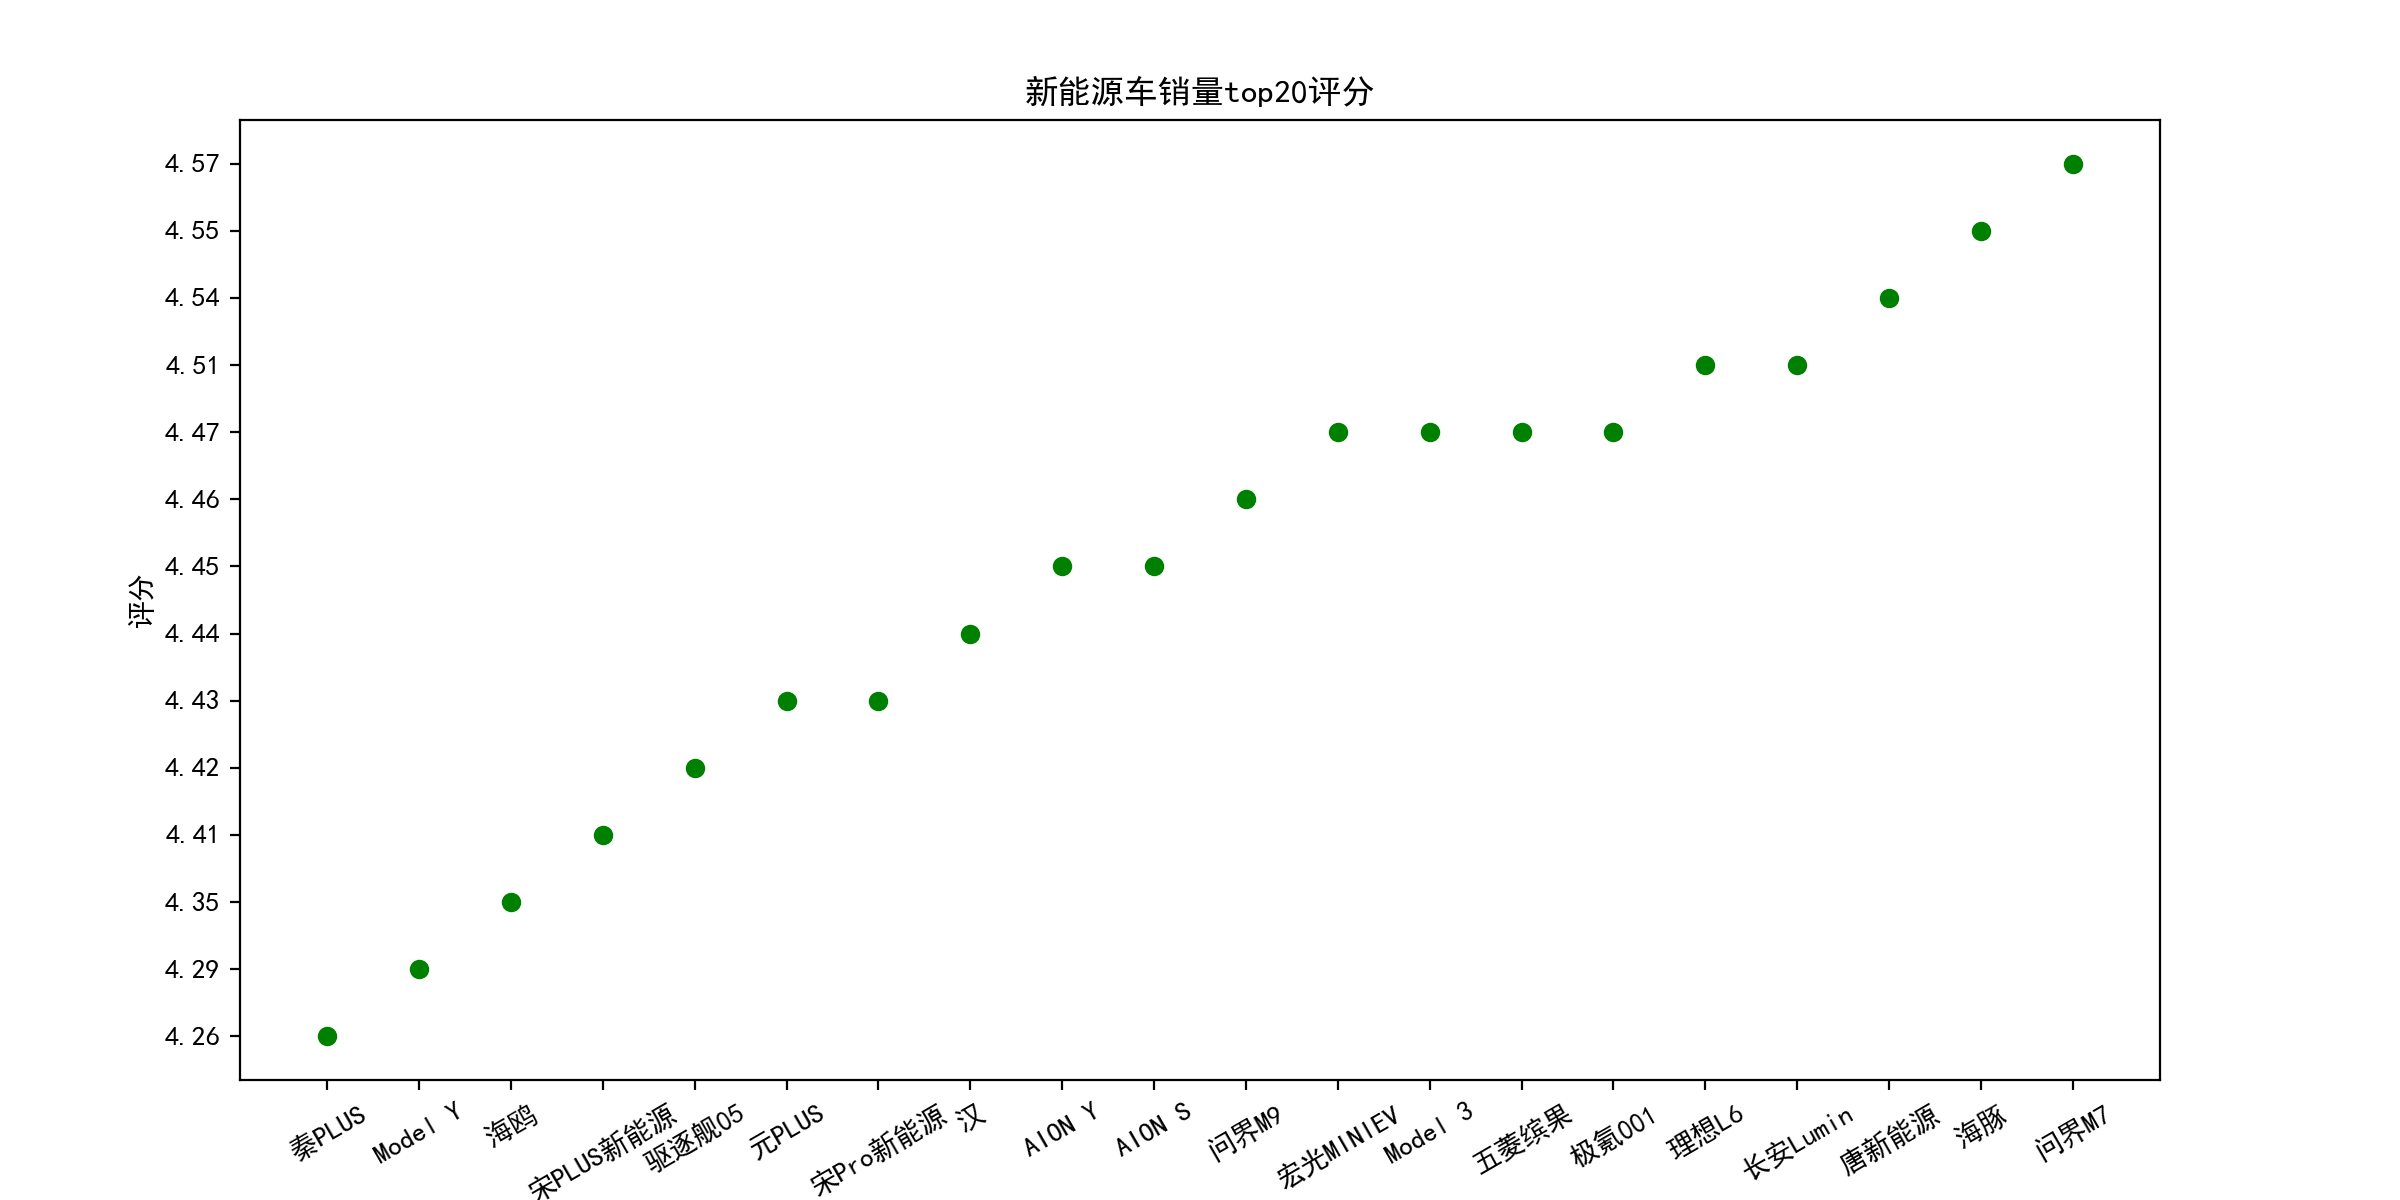
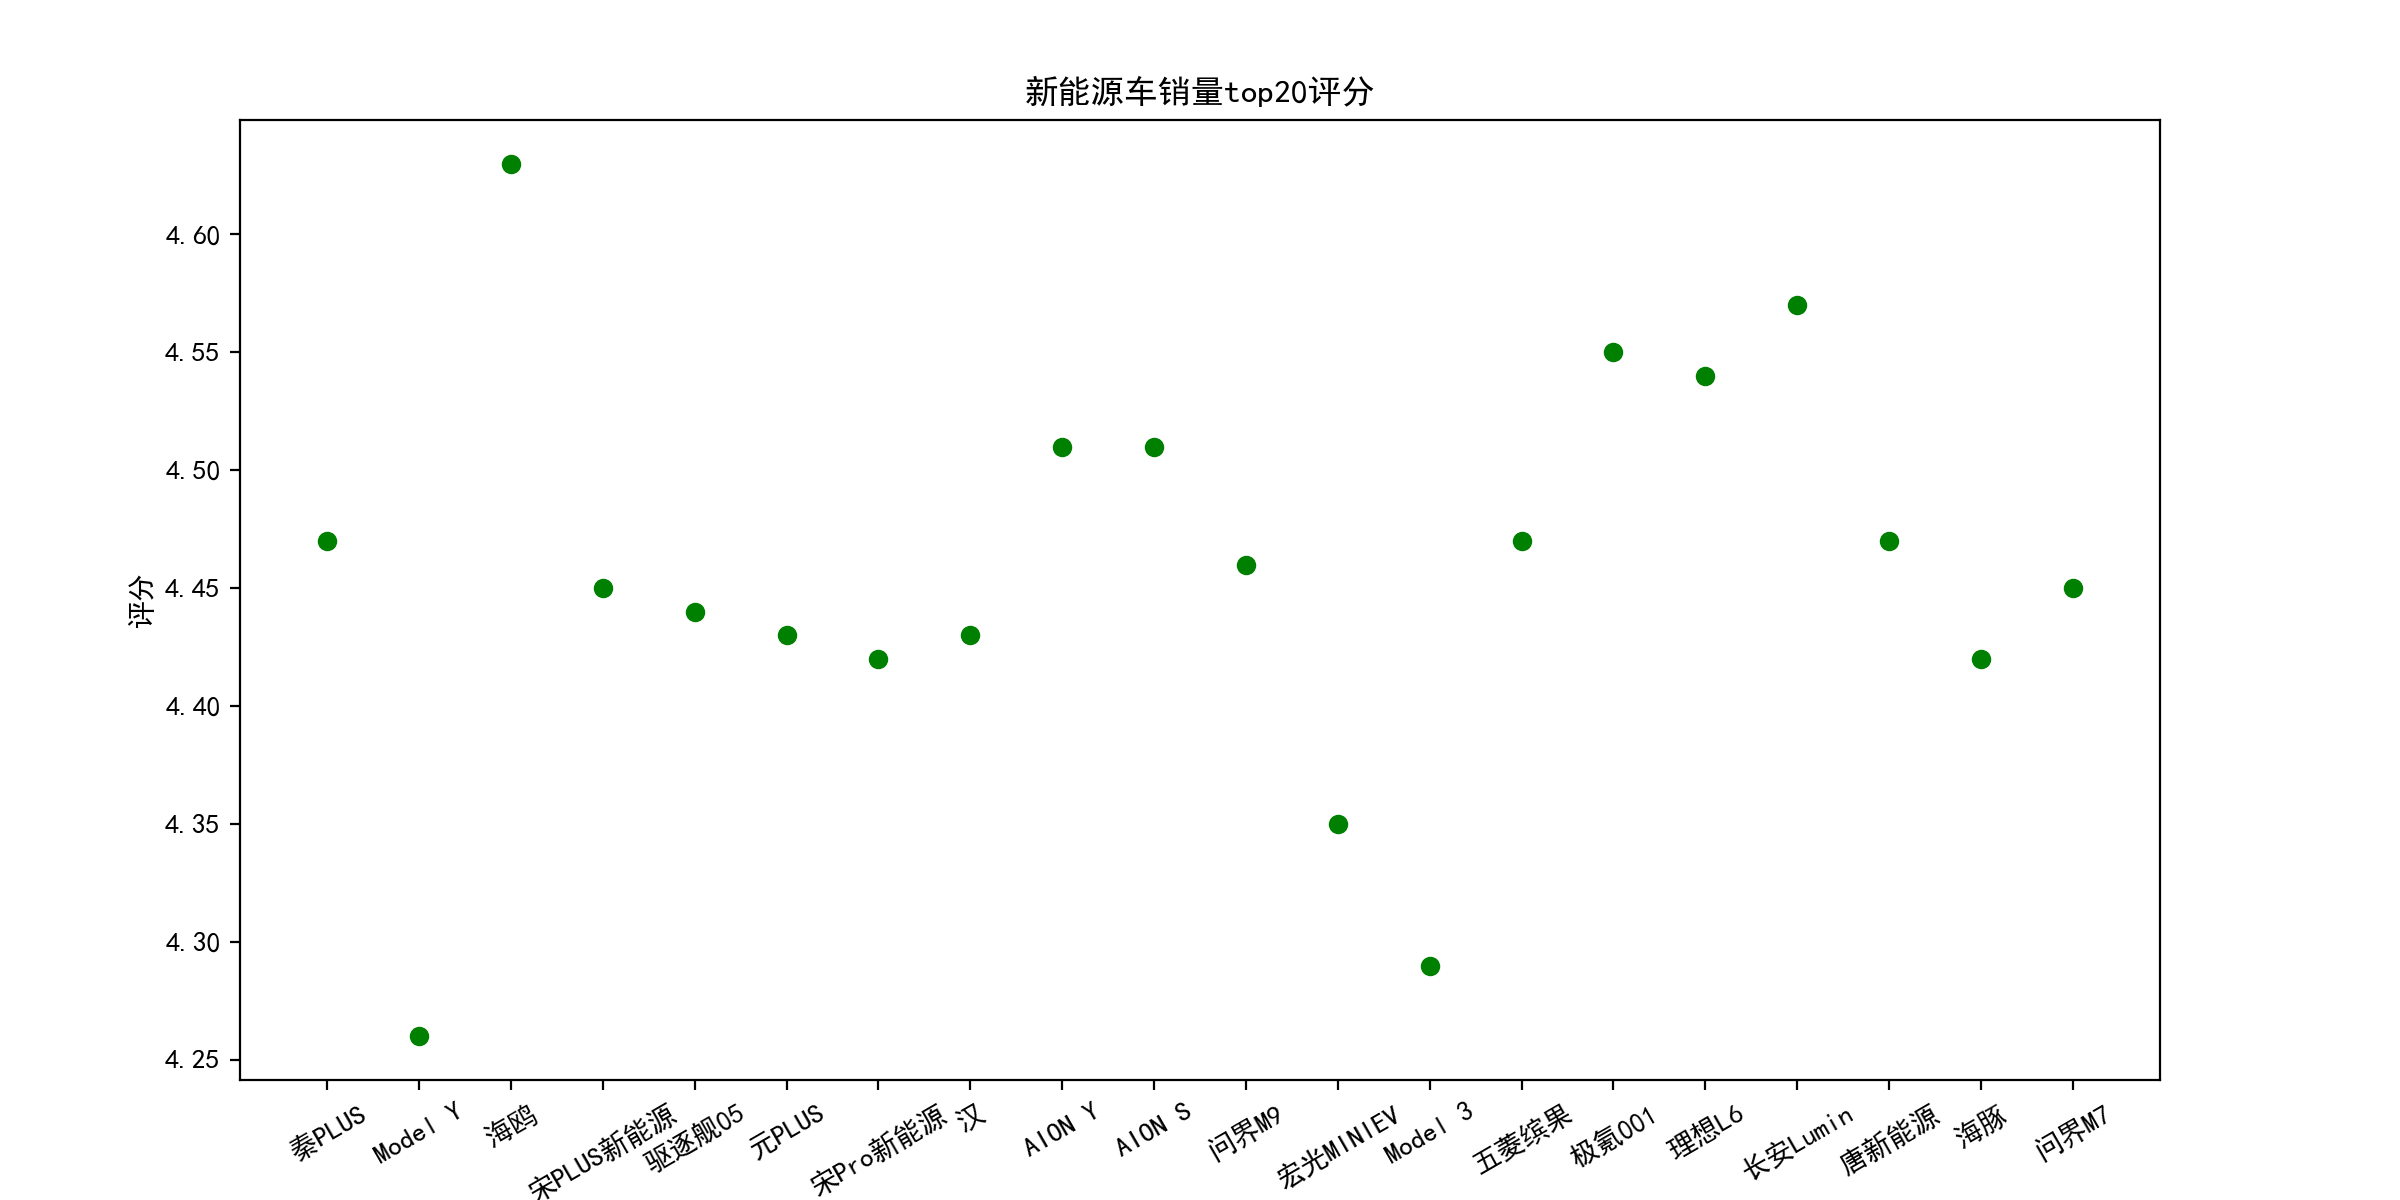
Update 2024.7.1
(cherry picked from commit b09037b405a1506e0889a4c39c520494107dbf5d)

diff --git a/picdrawer.py b/picdrawer.py
@@ -1,8 +1,8 @@
-import pandas as pd
 import os
+
 import matplotlib as mpl
 import matplotlib.pyplot as plt
-import numpy as np
+import pandas as pd
 
 from Tcrawler import Crawler
 
@@ -19,9 +19,11 @@ if not os.path.exists(path2):
 if not os.path.exists(path3):
     os.makedirs(path3)
 
+
 class Draw(Crawler):
     def __init__(self):
         super().__init__()
+        # 取消 Pandas 库的 Warning 提示，本项目使用了新版 Pandas 库的不推荐用法
         pd.options.mode.chained_assignment = None
         # print(self.df)
         # print(self.top)
@@ -44,7 +46,7 @@ class Draw(Crawler):
             std.append(x)
         ev_label = ev.loc[:, 'Name']
 
-        fig = plt.figure(figsize=(12, 6),dpi=200)
+        fig = plt.figure(figsize=(12, 6), dpi=200)
 
         ax1 = fig.add_axes((0.1, 0.1, 0.8, 0.8))
         ax2 = ax1.twinx()
@@ -74,7 +76,7 @@ class Draw(Crawler):
 
         fig.savefig('./assets/ev/price_and_sales.png')
 
-        #fig.show()
+        # fig.show()
 
     def fv_draw_price_and_sales(self):
         fv = self.df[self.df['Type'] == '燃油车']
@@ -89,7 +91,7 @@ class Draw(Crawler):
             std.append(x)
         fv_label = fv.loc[:, 'Name']
 
-        fig = plt.figure(figsize=(12, 6),dpi=200)
+        fig = plt.figure(figsize=(12, 6), dpi=200)
 
         ax3 = fig.add_axes((0.1, 0.1, 0.8, 0.8))
         ax4 = ax3.twinx()
@@ -119,22 +121,19 @@ class Draw(Crawler):
 
         fig.savefig('./assets/fv/price_and_sales.png')
 
-        #fig.show()
-
+        # fig.show()
 
     def ev_draw_score(self):
         ev = self.df[self.df['Type'] == '新能源车']
         ev.reset_index(drop=True, inplace=True)
         ev_label = ev.loc[:, 'Name']
         ev_score = ev.loc[:, 'Score']
-        sorted_indices = np.argsort(ev_score)
-        ev_score_sorted = ev_score[sorted_indices]
 
-        fig = plt.figure(figsize=(12, 6),dpi=200)
+        fig = plt.figure(figsize=(12, 6), dpi=200)
 
         ax1 = fig.add_axes((0.1, 0.1, 0.8, 0.8))
 
-        ax1.scatter(ev_label, ev_score_sorted, color='green', marker='o')
+        ax1.scatter(ev_label, ev_score, color='green', marker='o')
 
         ax1.set_xlabel('名称（销量自左往右从高到低）')
         ax1.set_ylabel('评分')
@@ -143,22 +142,19 @@ class Draw(Crawler):
 
         fig.savefig('./assets/ev/score.png')
 
-        #fig.show()
-
+        # fig.show()
 
     def fv_draw_score(self):
         fv = self.df[self.df['Type'] == '燃油车']
         fv.reset_index(drop=True, inplace=True)
         fv_label = fv.loc[:, 'Name']
         fv_score = fv.loc[:, 'Score']
-        sorted_indices = np.argsort(fv_score)
-        fv_score_sorted = fv_score[sorted_indices]
 
-        fig = plt.figure(figsize=(12, 6),dpi=200)
+        fig = plt.figure(figsize=(12, 6), dpi=200)
 
         ax1 = fig.add_axes((0.1, 0.1, 0.8, 0.8))
 
-        ax1.scatter(fv_label, fv_score_sorted, color='green', marker='o')
+        ax1.scatter(fv_label, fv_score, color='green', marker='o')
 
         ax1.set_xlabel('名称（销量自左往右从高到低）')
         ax1.set_ylabel('评分')
@@ -167,7 +163,7 @@ class Draw(Crawler):
 
         fig.savefig('./assets/fv/score.png')
 
-        #fig.show()
+        # fig.show()
 
     def level(self):
 
@@ -232,7 +228,8 @@ class Draw(Crawler):
         fig3.set_title('总车型占比')
 
         fig.tight_layout()
-        #fig.show()
+        # fig.show()
         fig.savefig('./assets/general/level.png')
+
 
 dr = Draw()

diff --git a/Tcrawler.py b/Tcrawler.py
@@ -3,8 +3,9 @@ import requests
 from lxml import etree
 
 
+# 寻找最小交集
 def find_price_range_intersection(price_range):
-    # 将字符串转换为（min, max）元组
+    # 输入多个（min, max）元组构成的列表
 
     intersection = price_range[0]
 
@@ -30,7 +31,9 @@ def find_price_range_intersection(price_range):
 class Crawler:
     def __init__(self, top=20):
 
+        # 取消 Pandas 库的 Warning 提示，本项目使用了新版 Pandas 库的不推荐用法
         pd.options.mode.chained_assignment = None
+
         self.ev_cars = []
         self.fuel_cars = []
         self.all_cars = []
@@ -115,7 +118,7 @@ class Crawler:
             temp_dict['LPrice'] = low
             temp_dict['HPrice'] = high
             temp_dict['Sales'] = XL_1.strip()
-            temp_dict['Score'] = PF_1.strip()
+            temp_dict['Score'] = float(PF_1.strip())
             temp_dict['Level'] = LVL_1.strip()
 
             # print(str(i), MZ_1, JG_1, XL_1, PF_1, LVL_1)
@@ -182,7 +185,7 @@ class Crawler:
             temp_dict['LPrice'] = low
             temp_dict['HPrice'] = high
             temp_dict['Sales'] = XL_2.strip()
-            temp_dict['Score'] = PF_2.strip()
+            temp_dict['Score'] = float(PF_2.strip())
             temp_dict['Level'] = LVL_2.strip()
 
             # print(str(i), MZ_2, JG_2, XL_2, PF_2, LVL_2)
